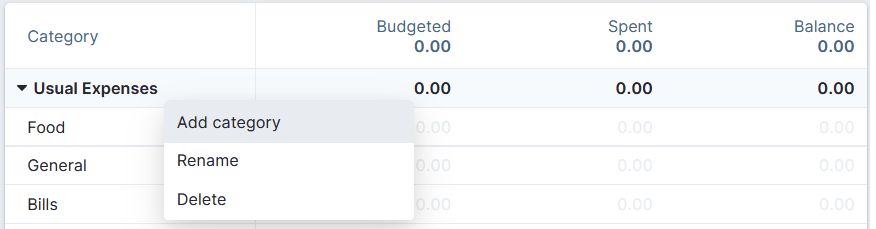
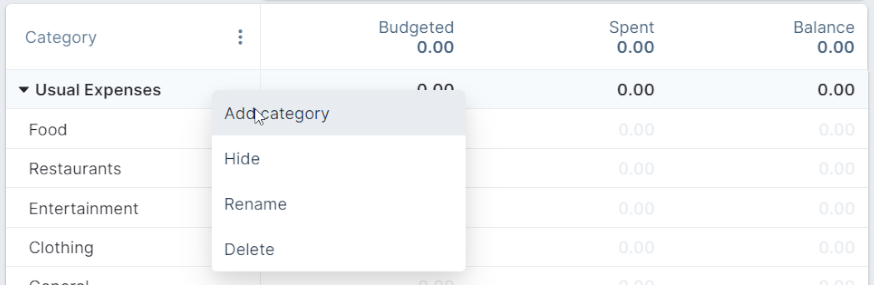
Update docs to be time-neutral by removing outdated references, update related screenshots to where these issues occured (#396)

diff --git a/docs/budgeting/categories.md b/docs/budgeting/categories.md
@@ -57,8 +57,17 @@ You can see in the budget that our categories have now been successfully merged 
 
 ![](/img/categories/CategoriesMerged.png)
 
-## Expanding, Collapsing or Hiding Categories
-Updates, in June and July 2023, added the ability to (a) *expand or collapse category groups* by clicking on the three dots at the top of the Category list and (b) *hide categories* that are no longer needed (using the down arrow by each category name). Hidden categories can be viewed, when needed, by clicking on the three dots at the top of the category list. The screenshots above do not currently reflect these enhancements.
+## Managing Categories
+
+Category groups can be *expanded or collapsed* by clicking on the arrow to the left of the Category group name. All category groups can be expanded or collapsed at once by using the three-dot menu at the top of the category list.
+
+Categories that are not currently needed can be *hidden* by using the down arrow by each category name. An example is budgeting savings for a large cost (e.g. washing machine). After the purchase is made, the category can be hidden. Hidden categories still impact your budget. When needed, hidden categories can be viewed by clicking on the three dots at the top of the category list. 
+
+![](/img/categories/CategoryToggleHidden.png)
+
+Hidden categories, when shown, are displayed in a lower-contrast color. If you find that you now require a category that you have previously hidden, you can unhide it by using the down arrow next to the category name.
+
+![](/img/categories/CategoriesHidden.png)
 
 ## Category Notes
 

diff --git a/docs/reports-filters/filters.md b/docs/reports-filters/filters.md
@@ -61,10 +61,6 @@ In the above Example we used the **Date is greater than** and **Date is less tha
 
 ### Saving Filters
 
-Starting with update [27.7.1](https://actualbudget.org/docs/releases/), users now have the ability to save filtered searches. Filtering transactions works exactly the same as in previous updates.
-
-Before we get started, you'll have to go to the **All accounts** page and filter some transactions. See the section **How to use the Filter tool** above for more information on how this works.
-
 To save a search, simply click on the **Unsaved filter** dropdown button above the transactions table and click **Save new filter**.
 
 ![](/img/filtering/save-filter.png)
